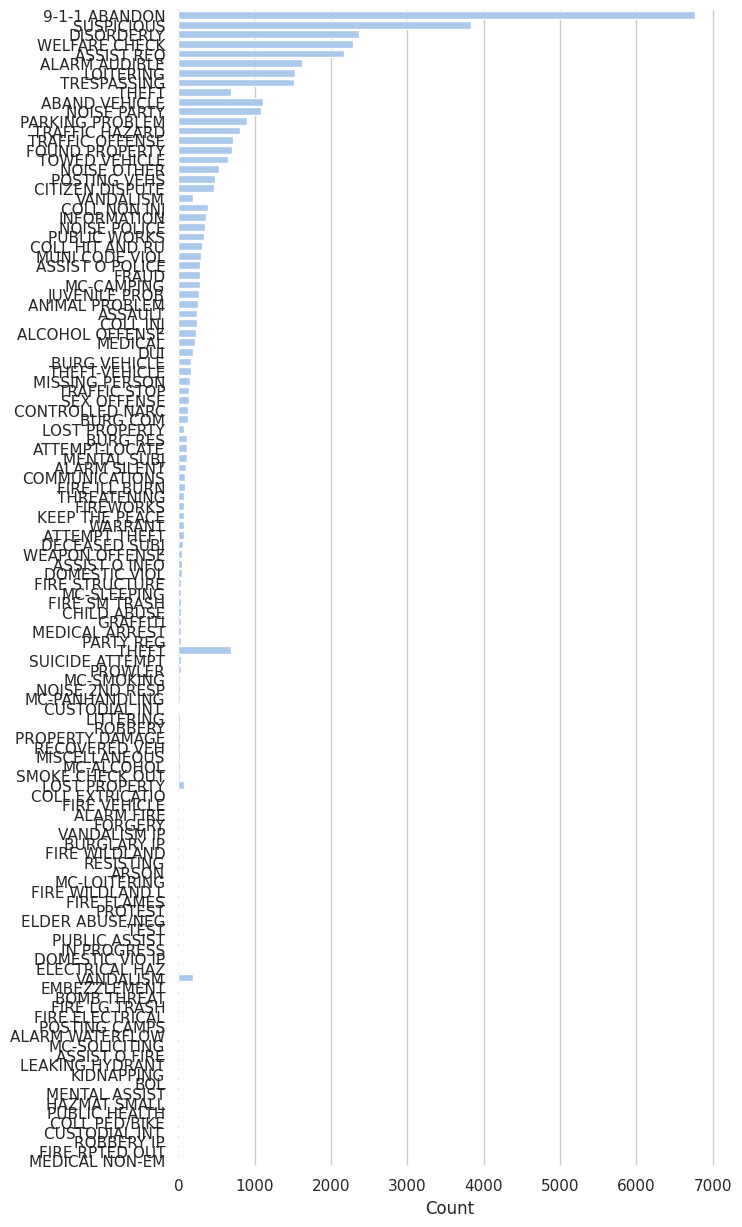
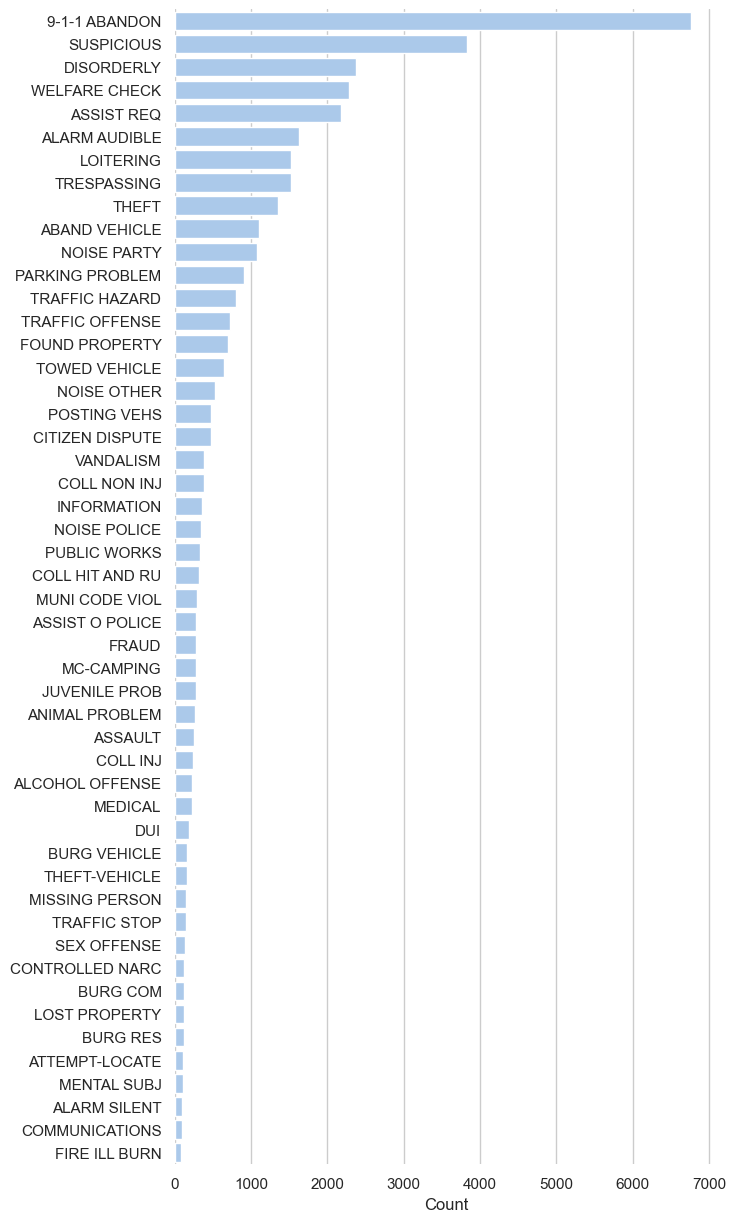
Fixing some plotting issues [adjusting date axis on time-series plot, reducing to top-50 categories in the barplot]

diff --git a/scripts/analysis.py b/scripts/analysis.py
@@ -1,12 +1,14 @@
 import pandas as pd
 import seaborn as sns
 import matplotlib.pyplot as plt
+import matplotlib.dates as md
 
 sns.set_theme(style="whitegrid")
 
 # Grab data from repo
 pd_data = pd.read_csv("data/csv/SLOPD_report.csv")
 pd_data.type = pd_data.type.str.strip()
+pd_data['date'] = pd.to_datetime(pd_data['date'], format = '%m/%d/%y')
 
 # Tabulate by call type - i.e. ROBBERY, ASSULT, DUI,...
 type_table = (
@@ -18,6 +20,8 @@ type_table = (
 )
 type_table.rename(columns={0: "count"}, inplace=True)
 type_table.type = type_table.type.str.upper()
+type_table = type_table.head(50)
+print(type_table)
 
 # Count the calls per day, most recent day may be imcomplete so remove
 calls_per_day_table = pd_data[["date"]].groupby("date").size().reset_index()
@@ -56,6 +60,21 @@ sns.lineplot(
     ],
 )
 ax.set(ylim=(0, None))
+
+# specify the position of the major ticks at the beginning of the week
+ax.xaxis.set_major_locator(md.WeekdayLocator(byweekday = 1))
+# specify the format of the labels as 'year-month-day'
+ax.xaxis.set_major_formatter(md.DateFormatter('%m/%d/%y'))
+# (optional) rotate by 90° the labels in order to improve their spacing
+plt.setp(ax.xaxis.get_majorticklabels(), rotation = 90)
+
+# specify the position of the minor ticks at each day
+ax.xaxis.set_minor_locator(md.DayLocator(interval = 1))
+
+# set ticks length
+ax.tick_params(axis = 'x', which = 'major', length = 10)
+ax.tick_params(axis = 'x', which = 'minor', length = 5)
+
 plt.setp(ax.get_xticklabels(), rotation=90)
 
 # Save time-series plot
